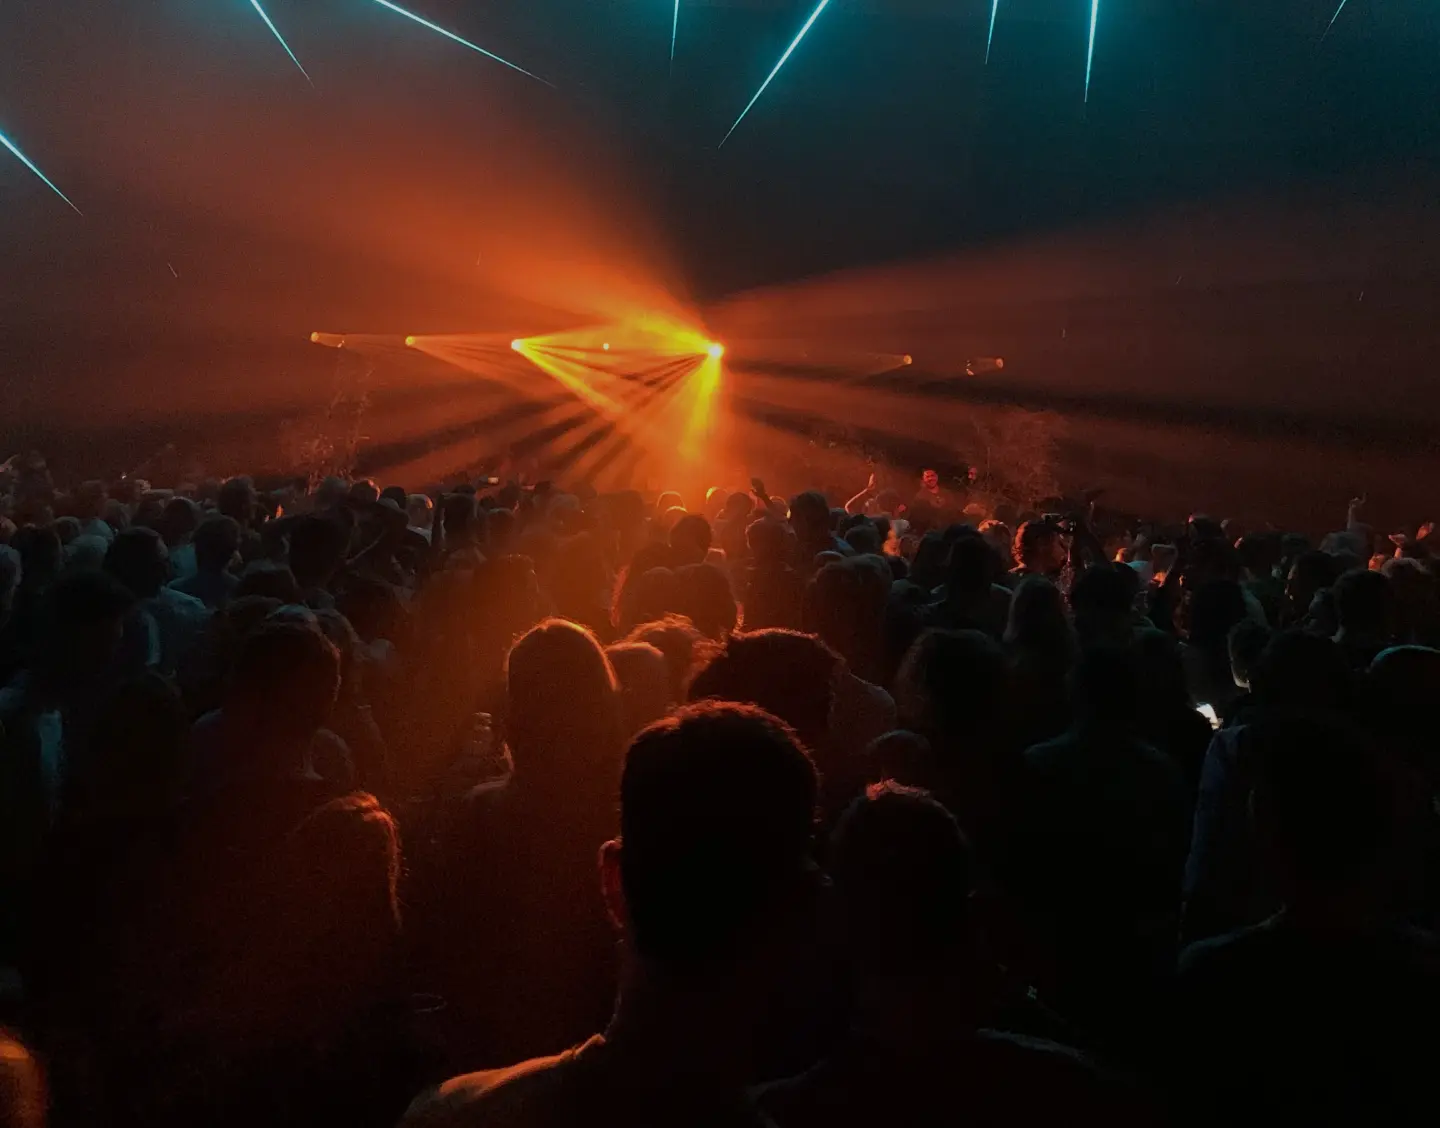
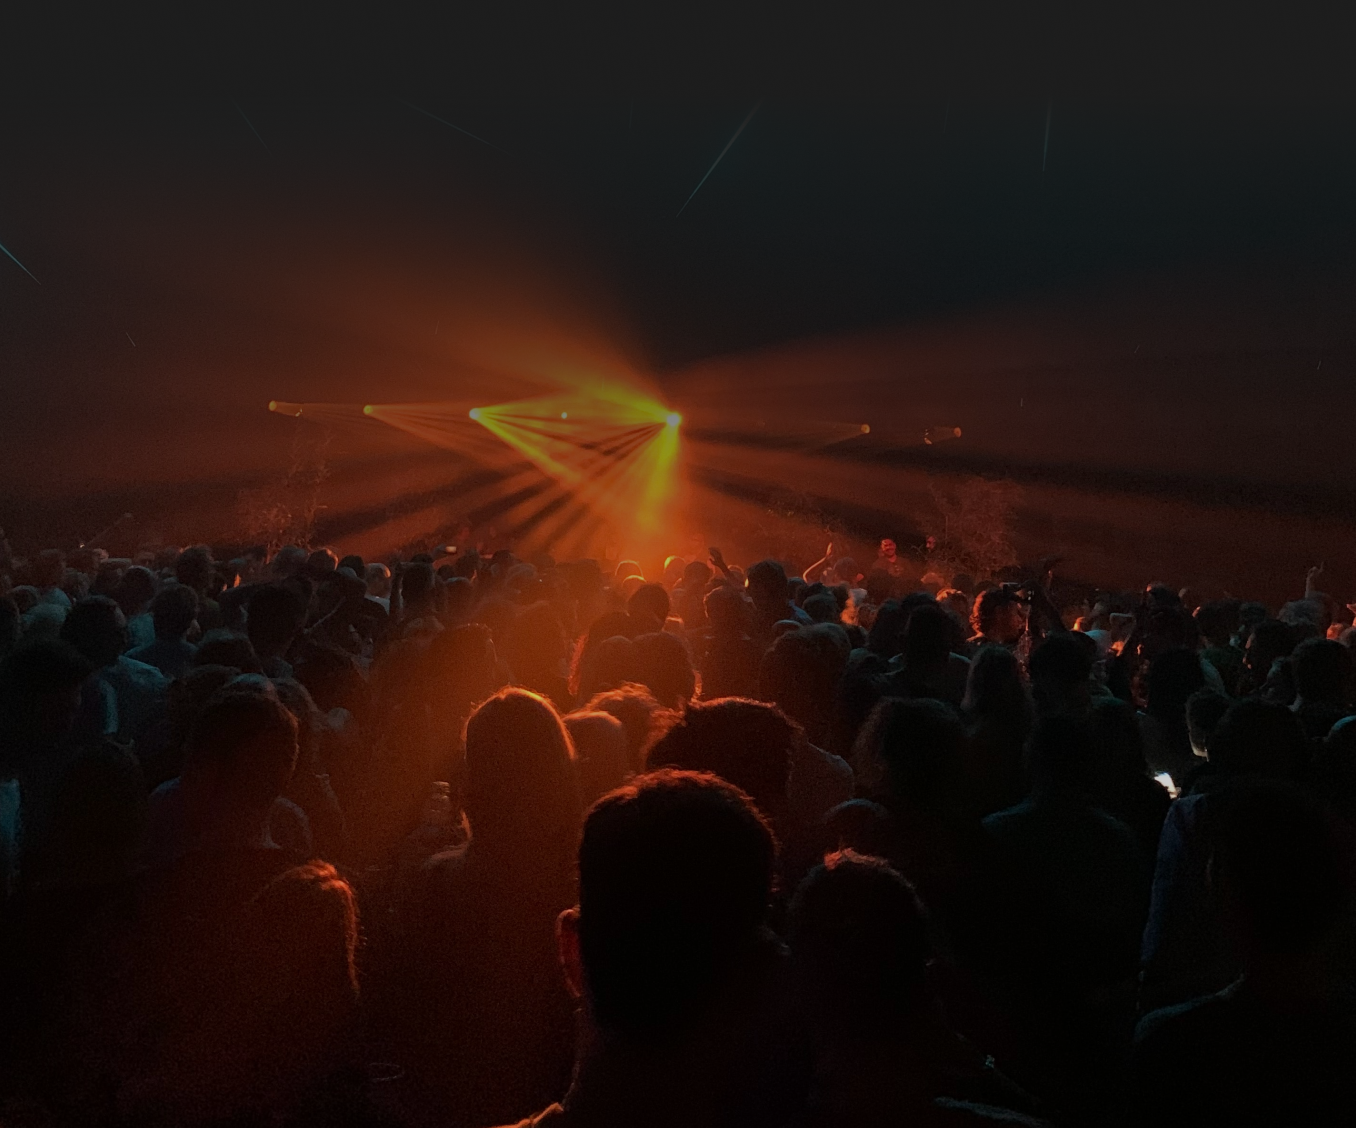
Fixing Report

diff --git a/pages/components/SmallComponents/Welcome/Buttons.js b/pages/components/SmallComponents/Welcome/Buttons.js
@@ -4,22 +4,22 @@ function Buttons() {
     className=" flex justify-evenly items-center max75:flex-col-reverse
     w-1/2 max110:w-2/3 max30:px-8 max50:px-6 p-1" >
 
-        <div 
-        className="border border-cus-yellow text-cus-yellow hover:bg-cus-yellow/60
-        transition-all hover:text-black bg-black/50 py-2 px-10 w-36 cursor-pointer
-        flex flex-col justify-center items-center max45:my-2 max75:mt-2 whitespace-nowrap	
-        duration-500" 
-        > Find Us</div>
- 
-        <div 
-        className="border border-cus-yellow text-cus-yellow hover:bg-cus-yellow/60
-        transition-all hover:text-black bg-black/80 py-2 px-10 w-36 cursor-pointer
-        flex flex-col justify-center items-center max45:my-2 max75:mt-2 whitespace-nowrap	
-        duration-500" 
-        > Our Menu</div>
+      <div 
+      className="border border-cus-yellow text-cus-yellow hover:bg-cus-yellow/60
+      transition-all hover:text-black bg-black/50 py-2 px-10 w-36 cursor-pointer
+      flex flex-col justify-center items-center max45:my-2 max75:mt-2 whitespace-nowrap	
+      duration-500" 
+      > Find Us</div>
+
+      <div 
+      className="border border-cus-yellow text-cus-yellow hover:bg-cus-yellow/60
+      transition-all hover:text-black bg-black/80 py-2 px-10 w-36 cursor-pointer
+      flex flex-col justify-center items-center max45:my-2 max75:mt-2 whitespace-nowrap	
+      duration-500" 
+      > Our Menu</div>
 
     </div>
-  )
+    )
 }
 
 export default Buttons

diff --git a/pages/components/SmallComponents/Menu/Type.js b/pages/components/SmallComponents/Menu/Type.js
@@ -2,7 +2,6 @@ import { TabGroup } from '@statikly/funk'
 import { FontAwesomeIcon } from '@fortawesome/react-fontawesome'
 import { faWineBottle, faWineGlass, faMartiniGlass, faGlassWater, faBowlFood } from '@fortawesome/free-solid-svg-icons'
 import MenuList from './MenuList'
-import { useState, useEffect } from "react";
 
 function Type() {
 
@@ -317,16 +316,10 @@ function Type() {
         ]
     }
 
-    const [ mount, setMount ] = useState(false)
-
-    useEffect(() => {
-        setMount(true)
-    }, [])
-
   return (
     <div className='flex flex-col' >
-        {mount ? (
-            <TabGroup  numTabs={4} direction={TabGroup.direction.HORIZONTAL}>
+
+        <TabGroup  numTabs={4} direction={TabGroup.direction.HORIZONTAL}>
 
             <div  
             className=" flex w-full my-6 overflow-x-auto"
@@ -455,14 +448,6 @@ function Type() {
             </TabGroup.TabPanel>   
 
         </TabGroup>
-
-        )
-
-        :
-
-        <h1>Loading...</h1>
-
-        }
         
     </div>
 

diff --git a/pages/components/Menu.js b/pages/components/Menu.js
@@ -1,20 +1,38 @@
 import Logo from "./SmallComponents/Menu/Logo";
 import Type from "./SmallComponents/Menu/Type";
+import { useState, useEffect } from "react";
 
 function Menu() {
+
+  const [ mount, setMount ] = useState(false)
+
+  useEffect(() => {
+      setMount(true)
+  }, [])
 
   return (
     <div data-aos="fade-up"  data-aos-duration="1500" id="MENU"
     className=" p-14 max90:p-3 min90:-mb-10 max90:my-5
     w-full first-line:-z-50 font-raleway" >
 
-      <Logo />
-  
-      <div >
+      {mount ? (
+        <div>
+          <Logo />
 
-        <Type />
+          <div >
+    
+            <Type />
+    
+          </div>
+        </div>
+            
+      ) 
+      
+      : 
+      
+        <div></div> 
+      }
 
-      </div>
 
     </div>
   )

diff --git a/styles/globals.css b/styles/globals.css
@@ -91,24 +91,9 @@ a {
   background-size: cover;
 }
 
-.imageTransparent {
-  position: absolute;
-  height: 23%;
-  right: 0 ;
-  left: 0;
-  width: 100%;
-  z-index: 5;
-  background-position: center;
-  background-repeat: no-repeat;
-  background-size: cover;
-}
-
 @media (max-width:900px) {
   .image {
     height: 22%;
-  }
-  .imageTransparent { 
-    height: 18%;
   }
   .background {
     height: 86%;
@@ -119,9 +104,6 @@ a {
   .image {
     height: 16%;
   }
-  .imageTransparent { 
-    height: 9%;
-  }
   .background {
     height: 93%;
   }
@@ -130,9 +112,6 @@ a {
 @media (max-width:450px) {
   .image {
     height: 13%;
-  }
-  .imageTransparent { 
-    height: 6%;
   }
   .background {
     height: 95%;

diff --git a/pages/index.js b/pages/index.js
@@ -27,11 +27,15 @@ export default function Home() {
 
       <Head>
         <title>Infinity Club</title>
+
+        <meta 
+          name="description"
+          content="Welcome to the best clubbing expirience in Graz, the Infinity Club "
+        />
+
       </Head>
 
-      <Image src={BgImage} alt="" className="image absolute right-0 left-0 z-5 "  />
-
-      <Image src={BgTransparent} alt="" className="imageTransparent absolute right-0 left-0 z-5 opacity-100 "  />
+      <Image src={BgImage} loading="lazy" alt="" className="image absolute right-0 left-0 z-5 "  />
 
       <div className="background absolute "  />
      

diff --git a/pages/components/SmallComponents/Location/MapLocation.js b/pages/components/SmallComponents/Location/MapLocation.js
@@ -1,11 +1,20 @@
+import { useEffect, useState } from "react"
+
 function MapLocation() {
+
+  const [ link, setLink ] = useState("")
+
+  useEffect(() => {
+    setLink("https://maps.google.com/maps?q=west%20palm%20beach&t=&z=15&ie=UTF8&iwloc=&output=embed")
+  }, [])
+
   return (
     <div className='
     flex justify-end p-2 
     w-2/3 h-full max75:w-full'>
     
       <iframe className=" max110:w-full aspect-auto max75:aspect-square w-full h-full" title="Location" 
-      src="https://maps.google.com/maps?q=west%20palm%20beach&t=&z=15&ie=UTF8&iwloc=&output=embed" />
+      src={link} />
     
     </div>
   )

diff --git a/pages/components/SmallComponents/Footer/Logo.js b/pages/components/SmallComponents/Footer/Logo.js
@@ -7,10 +7,10 @@ function Logo() {
     className=" relative w-1/5 -ml-2 max110:w-1/4 
     max90:w-1/2 max90:mt-4 max45:mt-0 min90:-mt-3 mb-2 ">
 
-        <Image 
-        src={LogoImg} 
-        alt="" 
-        ayout="responsive" />
+      <Image 
+      src={LogoImg} 
+      alt="" 
+      ayout="responsive" />
 
     </div>
   )

diff --git a/pages/components/SmallComponents/index/TopButton.js b/pages/components/SmallComponents/index/TopButton.js
@@ -7,7 +7,7 @@ function TopButton() {
   const [ show, setShow ] = useState(false)
 
   useEffect(() => {
-    window.addEventListener("scroll", () => {
+    window.addEventListener("scroll", {passive: true}, () => {
       if(window.scrollY > 100) {
         setShow(true)
       } else {

diff --git a/pages/components/Header.js b/pages/components/Header.js
@@ -24,7 +24,7 @@ function Header() {
     // }
 
     useEffect(() => {
-        window.addEventListener('scroll', changeColor)
+        window.addEventListener('scroll', changeColor, {passive: true})
     },[])
 
   return (
